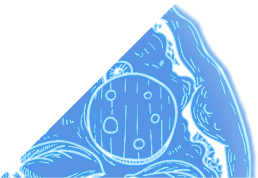
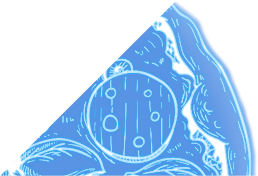
2 and 7 pcs

diff --git a/src/js/files/script.js b/src/js/files/script.js
@@ -73,8 +73,6 @@ const pcs = document.querySelectorAll('.pcs__part');
 // 	});
 // });
 
-const pc1 = document.querySelector('.pcs__pc1');
-
 const makePizza = () => {
 	const pc1 = document.querySelector('.pcs__pc1');
 	const pc2 = document.querySelector('.pcs__pc2');
@@ -84,54 +82,41 @@ const makePizza = () => {
 	const pc6 = document.querySelector('.pcs__pc6');
 	const pc7 = document.querySelector('.pcs__pc7');
 	const pc8 = document.querySelector('.pcs__pc8');
-
-	mm.add(
-		{
-			isDesktop: `(min-width: ${breakPoint}px)`,
-			isMobile: `(max-width: ${breakPoint - 1}px)`,
-			reduceMotion: '(prefers-reduced-motion: reduce)',
-		},
-		context => {
-			let { isDesktop, isMobile, reduceMotion } = context.conditions;
-
-			gsap.to(pc1, {
-				ease: 'none',
-				duration: 1,
-				x: isDesktop
-					? function () {
-							if (
-								document.documentElement.scrollWidth >=
-								pizzaContainer.offsetWidth
-							) {
-								return (pizzaContainer.offsetWidth / 2 - 30).toString();
-							} else {
-								return (pizzaContainer.offsetWidth / 2 - 30).toString();
-							}
-					  }
-					: '50vw',
-			});
-			gsap.to(pc8, {
-				ease: 'none',
-				duration: 1,
-				translateY: '-100%',
-				x: isDesktop
-					? function () {
-							if (
-								document.documentElement.scrollWidth >=
-								pizzaContainer.offsetWidth
-							) {
-								return (-pizzaContainer.offsetWidth / 2).toString();
-							} else {
-								return '-50vw';
-							}
-					  }
-					: function () {
-							return (-pizzaContainer.offsetWidth / 2).toString();
-					  },
-			});
-
-			return () => {};
-		}
+	console.log(
+		`width`,
+		pc1.offsetWidth + pc2.offsetWidth + pc3.offsetWidth + pc4.offsetWidth
 	);
+
+	gsap.to(pc1, {
+		ease: 'none',
+		duration: 1,
+		x: function () {
+			return (pizzaContainer.offsetWidth / 2 - 15).toString();
+		},
+	});
+	//!Тут посмотреть какую формулу
+	gsap.to(pc2, {
+		ease: 'none',
+		duration: 1,
+		y: '25%',
+		x: function () {
+			return (pizzaContainer.offsetWidth / 4).toString();
+		},
+	});
+	gsap.to(pc7, {
+		ease: 'none',
+		duration: 1,
+		translateY: '-50%',
+		x: `-100%`,
+	});
+
+	gsap.to(pc8, {
+		ease: 'none',
+		duration: 1,
+		translateY: '-100%',
+		x: function () {
+			return (-pizzaContainer.offsetWidth / 2 + 15).toString();
+		},
+	});
 };
 makePizza();

diff --git a/src/scss/generate-section.scss b/src/scss/generate-section.scss
@@ -19,7 +19,7 @@
 	&__pcs {
 	}
 	&__image {
-		max-width: rem(1000);
+		// max-width: rem(1000);
 		margin: 0 auto;
 		img {
 			width: 100%;
@@ -49,7 +49,6 @@
 }
 
 .pcs {
-	margin: rem(80) 0;
 	display: flex;
 	flex-direction: column;
 	// row-gap: rem(100);
@@ -61,6 +60,7 @@
 	}
 	&__part {
 		position: relative;
+
 		img {
 			width: 100%;
 		}
